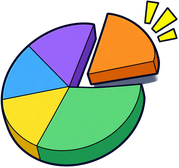
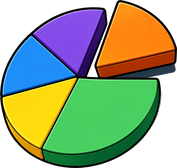
アイコン差し替え：メニュー・予実・ステータス分布、月別を新規追加（版 2026-08-12u）
- icons/btn_menu.png（新規）＝ホームのメニューボタン。絵が読めたら
  CSSで描いていた青い丸・枠・影・白い三本線を消す（btn_back と同じ作り）
- icons/hpic_yojitsu.png / hpic_status.png を差し替え（URLに版名を付与）
- icons/hpic_tsukibetsu.png（新規）＝月別 受注金額の推移。
  これでダッシュボードの見出し9個すべてに絵が入った
- 見出し「自社の実績歩掛」→「歩掛実績」に変更
- sw.js の保存一覧に btn_menu.png と hpic_tsukibetsu.png を追加
- 円グラフだけ webp 変換で透過が失われていたので市松模様を消して復元

diff --git a/kirokucho_demo.html b/kirokucho_demo.html
@@ -3638,7 +3638,7 @@ function renderDash(){
   const dashRest=`
     <div class="dash-top2">
       <div>
-        <div class="dpanel"><h4><span class="httl"><img class="hpic" src="./icons/hpic_yojitsu.png" alt="" onerror="this.remove()">完成工事高の予実</span>${zBtn()}</h4>
+        <div class="dpanel"><h4><span class="httl"><img class="hpic" src="./icons/hpic_yojitsu.png?v=2026-08-12u" alt="" onerror="this.remove()">完成工事高の予実</span>${zBtn()}</h4>
           <div class="cline"><span class="lb">見積</span>${barSeg(pB,gB,false)}</div>
           <div class="cline cdown"><span class="lb ar">▼</span><span class="ddx">見積 → 実行　粗利 <b>${ptd(gA-gB)}</b>${bG-aG>0?`　<b>▲${man(bG-aG)}万</b>　<span class="dnote">見積より粗利が減った分</span>`:`　<b class="up">＋${man(aG-bG)}万</b>`}</span></div>
           <div class="cline"><span class="lb o">実行</span>${barSeg(pA,gA,gA<gB)}</div>
@@ -3669,7 +3669,7 @@ function renderDash(){
     `;
   /* --- 2つめのかたまり：月別グラフと施工中の現場 --- */
   const dashRest2=`
-    <div class="dpanel"><h4><span class="httl sq">月別 受注金額の推移（2025/7〜2026/12）</span><span class="cta">${filOn?`<b style="color:var(--green-deep)">絞り込み中　${filLabel}</b>　`:''}バーに触れると物件別の内訳</span>${zBtn()}</h4>
+    <div class="dpanel"><h4><span class="httl sq"><img class="hpic" src="./icons/hpic_tsukibetsu.png" alt="" onerror="this.remove()">月別 受注金額の推移（2025/7〜2026/12）</span><span class="cta">${filOn?`<b style="color:var(--green-deep)">絞り込み中　${filLabel}</b>　`:''}バーに触れると物件別の内訳</span>${zBtn()}</h4>
       <div class="chart-legend">
         <span><span class="sw" style="background:#1e5c3a"></span>契約済（契約月で計上）</span>
         <span><span class="sw" style="background:#8fc7a2"></span>見積提出中（着工予定月）</span>
@@ -3700,7 +3700,7 @@ function renderDash(){
   /* --- 3つめのかたまり：ステータス分布・歩掛・入金予定・工法別 --- */
   const dashRest3=`
     <div class="dash-bot2">
-      <div class="dpanel"><h4><span class="httl"><img class="hpic" src="./icons/hpic_status.png" alt="" onerror="this.remove()">ステータス分布</span><span class="cta">円グラフを2回タップで一覧へ</span>${colBtn('stt')}${zBtn()}</h4>
+      <div class="dpanel"><h4><span class="httl"><img class="hpic" src="./icons/hpic_status.png?v=2026-08-12u" alt="" onerror="this.remove()">ステータス分布</span><span class="cta">円グラフを2回タップで一覧へ</span>${colBtn('stt')}${zBtn()}</h4>
         <div class="stflex">
           <div class="tblside" style="overflow-x:auto"><table class="mini-tbl st-tbl">
           <tr>${stCols.map(c=>stCell[c.id].th.replace('</th>',sortBtn('stt',c.id)+'</th>')).join('')}</tr>
@@ -3721,7 +3721,7 @@ function renderDash(){
           </div>
         </div>
       </div>
-      <div class="dpanel"><h4><span class="httl"><img class="hpic" src="./icons/hpic_bugakari.png" alt="" onerror="this.remove()">自社の実績歩掛</span><span class="cta">期間内完成から自動算出・次の見積に反映</span>${zBtn()}</h4>
+      <div class="dpanel"><h4><span class="httl"><img class="hpic" src="./icons/hpic_bugakari.png" alt="" onerror="this.remove()">歩掛実績</span><span class="cta">期間内完成から自動算出・次の見積に反映</span>${zBtn()}</h4>
         ${Object.keys(byK).length?`<table class="mini-tbl"><tr><th>工法</th><th style="text-align:right">実績</th><th style="text-align:right">歩掛</th></tr>
         ${Object.entries(byK).map(([k,o])=>`<tr><td>${k}</td><td class="num">${o.n}件・${o.m.toLocaleString()}㎡</td><td class="num"><b>${(o.nin/o.m).toFixed(3)}</b> 人/㎡</td></tr>`).join('')}
         </table>`:'<p class="hint">期間内の完成（㎡物件）がありません。</p>'}
@@ -4249,7 +4249,7 @@ nav, nav#nav{justify-content:center !important; padding-left:6px !important; pad
    古いものが出続けることがある。そこで ver.txt（数バイト）だけを
    毎回見に行き、公開版と違っていたら保存分を捨てて1回だけ読み直す。
    ★公開のたびに ver.txt と、下の NN_VER を同じ文字に更新すること。 */
-const NN_VER='2026-08-12t';
+const NN_VER='2026-08-12u';
 /* ============ 表示にかかった時間の記録（原因調査用・2026-07-28） ============
    スマホの実機でどこに時間がかかっているかを数字で出す。
    ・net  ＝ページを要求してから最初の返事が来るまで（通信の待ち）

diff --git a/index.html b/index.html
@@ -132,6 +132,14 @@ main{flex:1; min-height:0; position:relative;}
 }
 #menuBtn:active{transform:translateY(2px); box-shadow:inset 0 1px 0 rgba(255,255,255,.4), 0 0 0 #1c4c9c;}
 #menuBtn i{display:block; width:18px; height:2.5px; border-radius:2px; background:#fff;}
+/* ★2026-08-12u：ボタンの絵（icons/btn_menu.png）に差し替え。
+   絵は「ボタンそのもの」なので、読めたときだけ 丸・枠・影・白い線を消す。
+   読めないときは onerror で絵を外すだけ＝今までの青い丸に戻る（btn_back と同じ考え方）。 */
+#menuBtn .mbi{display:none; width:100%; height:100%; object-fit:contain;}
+#menuBtn.hasimg{background:none; border:0; box-shadow:none; gap:0;}
+#menuBtn.hasimg i{display:none;}
+#menuBtn.hasimg .mbi{display:block;}
+#menuBtn.hasimg:active{transform:translateY(2px); box-shadow:none;}
 /* 登録済仕様の付箋（手本実測：約110×55px・文字11px） */
 .fusen{
   position:relative;
@@ -333,7 +341,7 @@ nav, nav#nav{overflow:visible; padding-top:2px;}
 
   <!-- 右側クイック：メニュー＋［付箋｜設定］＋用語集 -->
   <div class="quick">
-    <button id="menuBtn" onclick="alert('メニューは準備中です')" aria-label="メニュー"><i></i><i></i><i></i></button>
+    <button id="menuBtn" onclick="alert('メニューは準備中です')" aria-label="メニュー"><img class="mbi" src="./icons/btn_menu.png" alt="" onload="this.parentElement.classList.add('hasimg')" onerror="this.remove()"><i></i><i></i><i></i></button>
     <div class="qrow">
       <div class="fusen">
         <span class="pin l"></span><span class="pin r"></span>
@@ -376,7 +384,7 @@ nav, nav#nav{overflow:visible; padding-top:2px;}
 
 <!-- 版の表示：スマホに届いている中身がどれかを、お互いに確認するための小さな印。
      不要になったらこの1行と #nnver の指定を消してください。 -->
-<div id="nnver">v2026-08-12 t</div>
+<div id="nnver">v2026-08-12 u</div>
 <script>
 /* ============ 実機の計測結果を表示（原因調査用・2026-07-28） ============
    数字の意味（単位はミリ秒）
@@ -710,7 +718,7 @@ nav, nav#nav{justify-content:center !important; padding-left:6px !important; pad
    古いものが出続けることがある。そこで ver.txt（数バイト）だけを
    毎回見に行き、公開版と違っていたら保存分を捨てて1回だけ読み直す。
    ★公開のたびに ver.txt と、下の NN_VER を同じ文字に更新すること。 */
-const NN_VER='2026-08-12t';
+const NN_VER='2026-08-12u';
 /* ============ 表示にかかった時間の記録（原因調査用・2026-07-28） ============
    スマホの実機でどこに時間がかかっているかを数字で出す。
    ・net  ＝ページを要求してから最初の返事が来るまで（通信の待ち）

diff --git a/sw.js b/sw.js
@@ -11,7 +11,7 @@
      ので、こちらの修正が確実に端末へ届く。
      ★ページを直したら、必ずこの番号を1つ上げること。
    ============================================================ */
-const CACHE = 'nn-cache-v127';
+const CACHE = 'nn-cache-v128';
 
 const ASSETS = [
   './',
@@ -36,6 +36,7 @@ const ASSETS = [
   './icons/hpic_hou.png', './icons/hpic_bugakari.png',
   './icons/hpic_sekou.png', './icons/hpic_status.png', './icons/hpic_nyukin.png',
   './icons/hpic_yojitsu.png', './icons/hpic_taio.png', './icons/hpic_juchu.png',
+  './icons/hpic_tsukibetsu.png',
   './icons/logo.png',
   './icons/title.png',
   './icons/nav_home.png',      './icons/nav_home_on.png',
@@ -58,7 +59,7 @@ const ASSETS = [
   './icons/title_map.png',     './icons/icon_map.png',
   './icons/title_zumen.png',
   /* 左上の戻るボタン（2026-07-30 追加） */
-  './icons/btn_back.png',
+  './icons/btn_back.png',      './icons/btn_menu.png',
 ];
 
 /* ページ本体（HTML）かどうかの判定 */

diff --git a/camera.html b/camera.html
@@ -1085,7 +1085,7 @@ nav, nav#nav{justify-content:center !important; padding-left:6px !important; pad
    古いものが出続けることがある。そこで ver.txt（数バイト）だけを
    毎回見に行き、公開版と違っていたら保存分を捨てて1回だけ読み直す。
    ★公開のたびに ver.txt と、下の NN_VER を同じ文字に更新すること。 */
-const NN_VER='2026-08-12t';
+const NN_VER='2026-08-12u';
 /* ============ 表示にかかった時間の記録（原因調査用・2026-07-28） ============
    スマホの実機でどこに時間がかかっているかを数字で出す。
    ・net  ＝ページを要求してから最初の返事が来るまで（通信の待ち）

diff --git a/genba_map_v36.html b/genba_map_v36.html
@@ -4670,7 +4670,7 @@ nav, nav#nav{justify-content:center !important; padding-left:6px !important; pad
    古いものが出続けることがある。そこで ver.txt（数バイト）だけを
    毎回見に行き、公開版と違っていたら保存分を捨てて1回だけ読み直す。
    ★公開のたびに ver.txt と、下の NN_VER を同じ文字に更新すること。 */
-const NN_VER='2026-08-12t';
+const NN_VER='2026-08-12u';
 /* ============ 表示にかかった時間の記録（原因調査用・2026-07-28） ============
    スマホの実機でどこに時間がかかっているかを数字で出す。
    ・net  ＝ページを要求してから最初の返事が来るまで（通信の待ち）

diff --git a/kokkosho.html b/kokkosho.html
@@ -2382,7 +2382,7 @@ nav, nav#nav{justify-content:center !important; padding-left:6px !important; pad
    古いものが出続けることがある。そこで ver.txt（数バイト）だけを
    毎回見に行き、公開版と違っていたら保存分を捨てて1回だけ読み直す。
    ★公開のたびに ver.txt と、下の NN_VER を同じ文字に更新すること。 */
-const NN_VER='2026-08-12t';
+const NN_VER='2026-08-12u';
 /* ============ 表示にかかった時間の記録（原因調査用・2026-07-28） ============
    スマホの実機でどこに時間がかかっているかを数字で出す。
    ・net  ＝ページを要求してから最初の返事が来るまで（通信の待ち）

diff --git a/library.html b/library.html
@@ -1115,7 +1115,7 @@ nav, nav#nav{justify-content:center !important; padding-left:6px !important; pad
    古いものが出続けることがある。そこで ver.txt（数バイト）だけを
    毎回見に行き、公開版と違っていたら保存分を捨てて1回だけ読み直す。
    ★公開のたびに ver.txt と、下の NN_VER を同じ文字に更新すること。 */
-const NN_VER='2026-08-12t';
+const NN_VER='2026-08-12u';
 /* ============ 表示にかかった時間の記録（原因調査用・2026-07-28） ============
    スマホの実機でどこに時間がかかっているかを数字で出す。
    ・net  ＝ページを要求してから最初の返事が来るまで（通信の待ち）

diff --git a/shiyo_toroku.html b/shiyo_toroku.html
@@ -1622,7 +1622,7 @@ nav, nav#nav{justify-content:center !important; padding-left:6px !important; pad
    古いものが出続けることがある。そこで ver.txt（数バイト）だけを
    毎回見に行き、公開版と違っていたら保存分を捨てて1回だけ読み直す。
    ★公開のたびに ver.txt と、下の NN_VER を同じ文字に更新すること。 */
-const NN_VER='2026-08-12t';
+const NN_VER='2026-08-12u';
 /* ============ 表示にかかった時間の記録（原因調査用・2026-07-28） ============
    スマホの実機でどこに時間がかかっているかを数字で出す。
    ・net  ＝ページを要求してから最初の返事が来るまで（通信の待ち）

diff --git a/yougo.html b/yougo.html
@@ -1369,7 +1369,7 @@ nav, nav#nav{justify-content:center !important; padding-left:6px !important; pad
    古いものが出続けることがある。そこで ver.txt（数バイト）だけを
    毎回見に行き、公開版と違っていたら保存分を捨てて1回だけ読み直す。
    ★公開のたびに ver.txt と、下の NN_VER を同じ文字に更新すること。 */
-const NN_VER='2026-08-12t';
+const NN_VER='2026-08-12u';
 /* ============ 表示にかかった時間の記録（原因調査用・2026-07-28） ============
    スマホの実機でどこに時間がかかっているかを数字で出す。
    ・net  ＝ページを要求してから最初の返事が来るまで（通信の待ち）

diff --git a/zairyo_toroku.html b/zairyo_toroku.html
@@ -1508,7 +1508,7 @@ nav, nav#nav{justify-content:center !important; padding-left:6px !important; pad
    古いものが出続けることがある。そこで ver.txt（数バイト）だけを
    毎回見に行き、公開版と違っていたら保存分を捨てて1回だけ読み直す。
    ★公開のたびに ver.txt と、下の NN_VER を同じ文字に更新すること。 */
-const NN_VER='2026-08-12t';
+const NN_VER='2026-08-12u';
 /* ============ 表示にかかった時間の記録（原因調査用・2026-07-28） ============
    スマホの実機でどこに時間がかかっているかを数字で出す。
    ・net  ＝ページを要求してから最初の返事が来るまで（通信の待ち）

diff --git a/zumen_sekisan.html b/zumen_sekisan.html
@@ -3967,7 +3967,7 @@ nav, nav#nav{justify-content:center !important; padding-left:6px !important; pad
    古いものが出続けることがある。そこで ver.txt（数バイト）だけを
    毎回見に行き、公開版と違っていたら保存分を捨てて1回だけ読み直す。
    ★公開のたびに ver.txt と、下の NN_VER を同じ文字に更新すること。 */
-const NN_VER='2026-08-12t';
+const NN_VER='2026-08-12u';
 /* ============ 表示にかかった時間の記録（原因調査用・2026-07-28） ============
    スマホの実機でどこに時間がかかっているかを数字で出す。
    ・net  ＝ページを要求してから最初の返事が来るまで（通信の待ち）

diff --git a/hacchu.html b/hacchu.html
@@ -975,7 +975,7 @@ nav, nav#nav{justify-content:center !important; padding-left:6px !important; pad
    古いものが出続けることがある。そこで ver.txt（数バイト）だけを
    毎回見に行き、公開版と違っていたら保存分を捨てて1回だけ読み直す。
    ★公開のたびに ver.txt と、下の NN_VER を同じ文字に更新すること。 */
-const NN_VER='2026-08-12t';
+const NN_VER='2026-08-12u';
 /* ============ 表示にかかった時間の記録（原因調査用・2026-07-28） ============
    スマホの実機でどこに時間がかかっているかを数字で出す。
    ・net  ＝ページを要求してから最初の返事が来るまで（通信の待ち）
